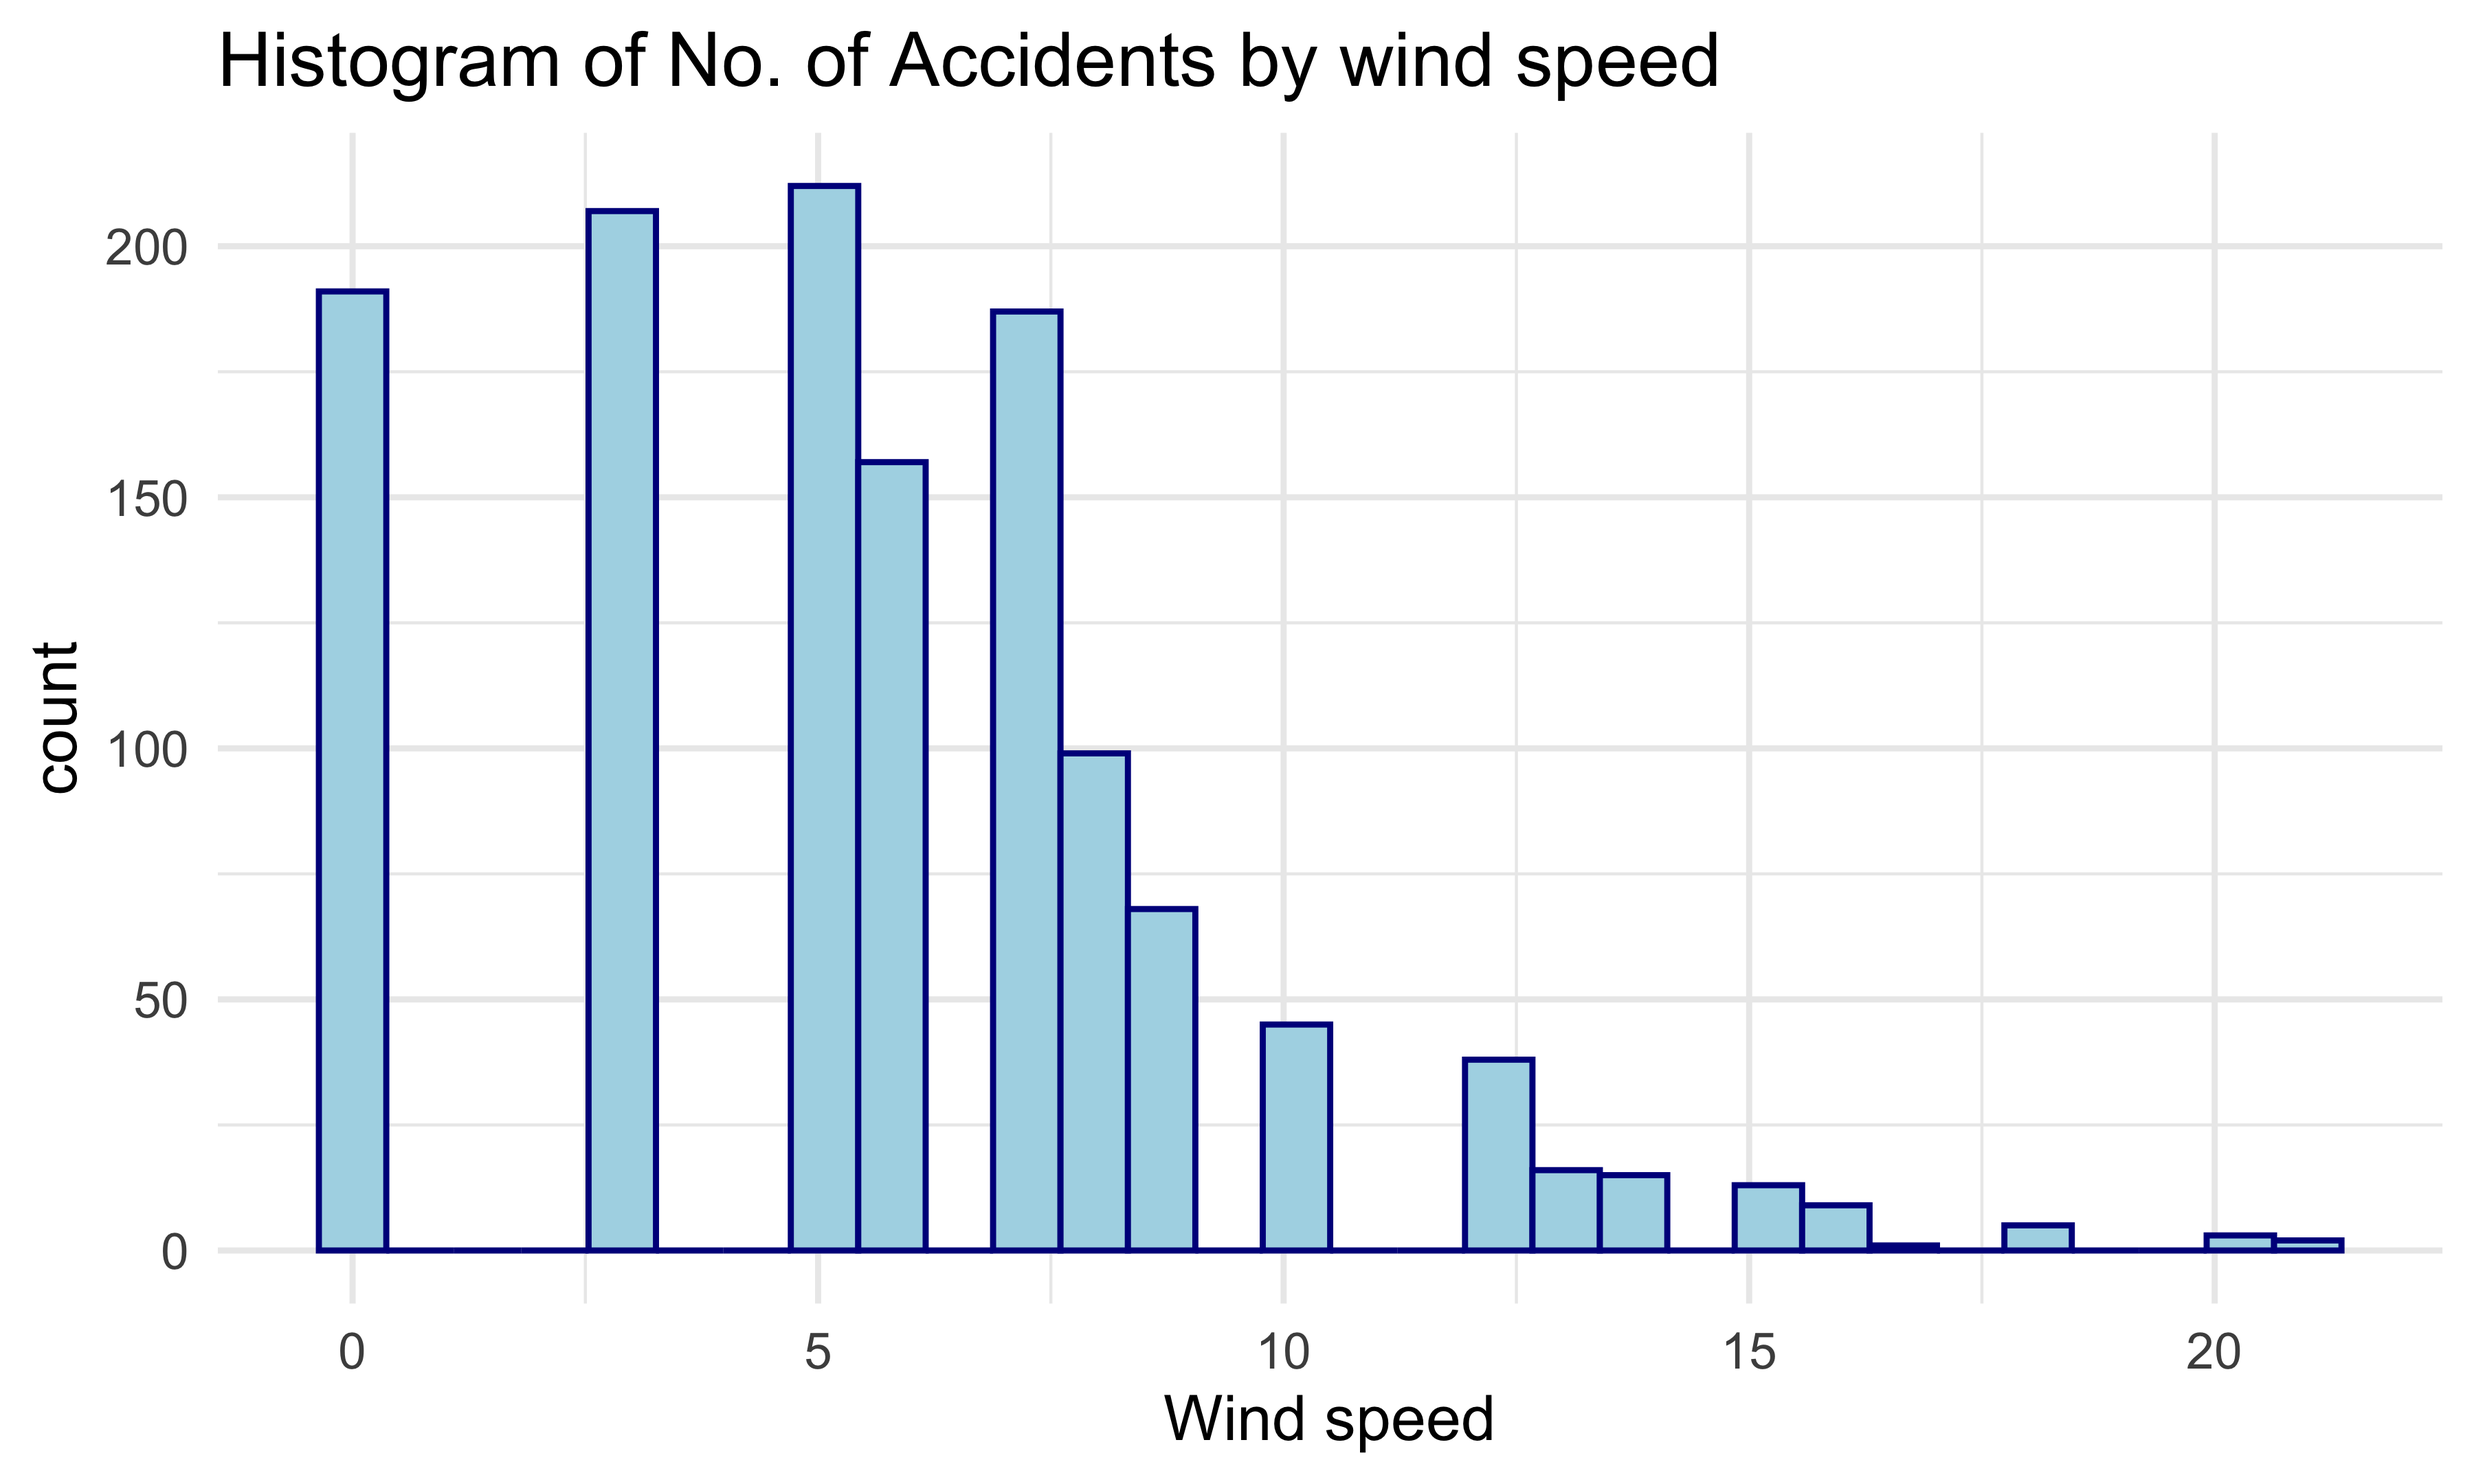
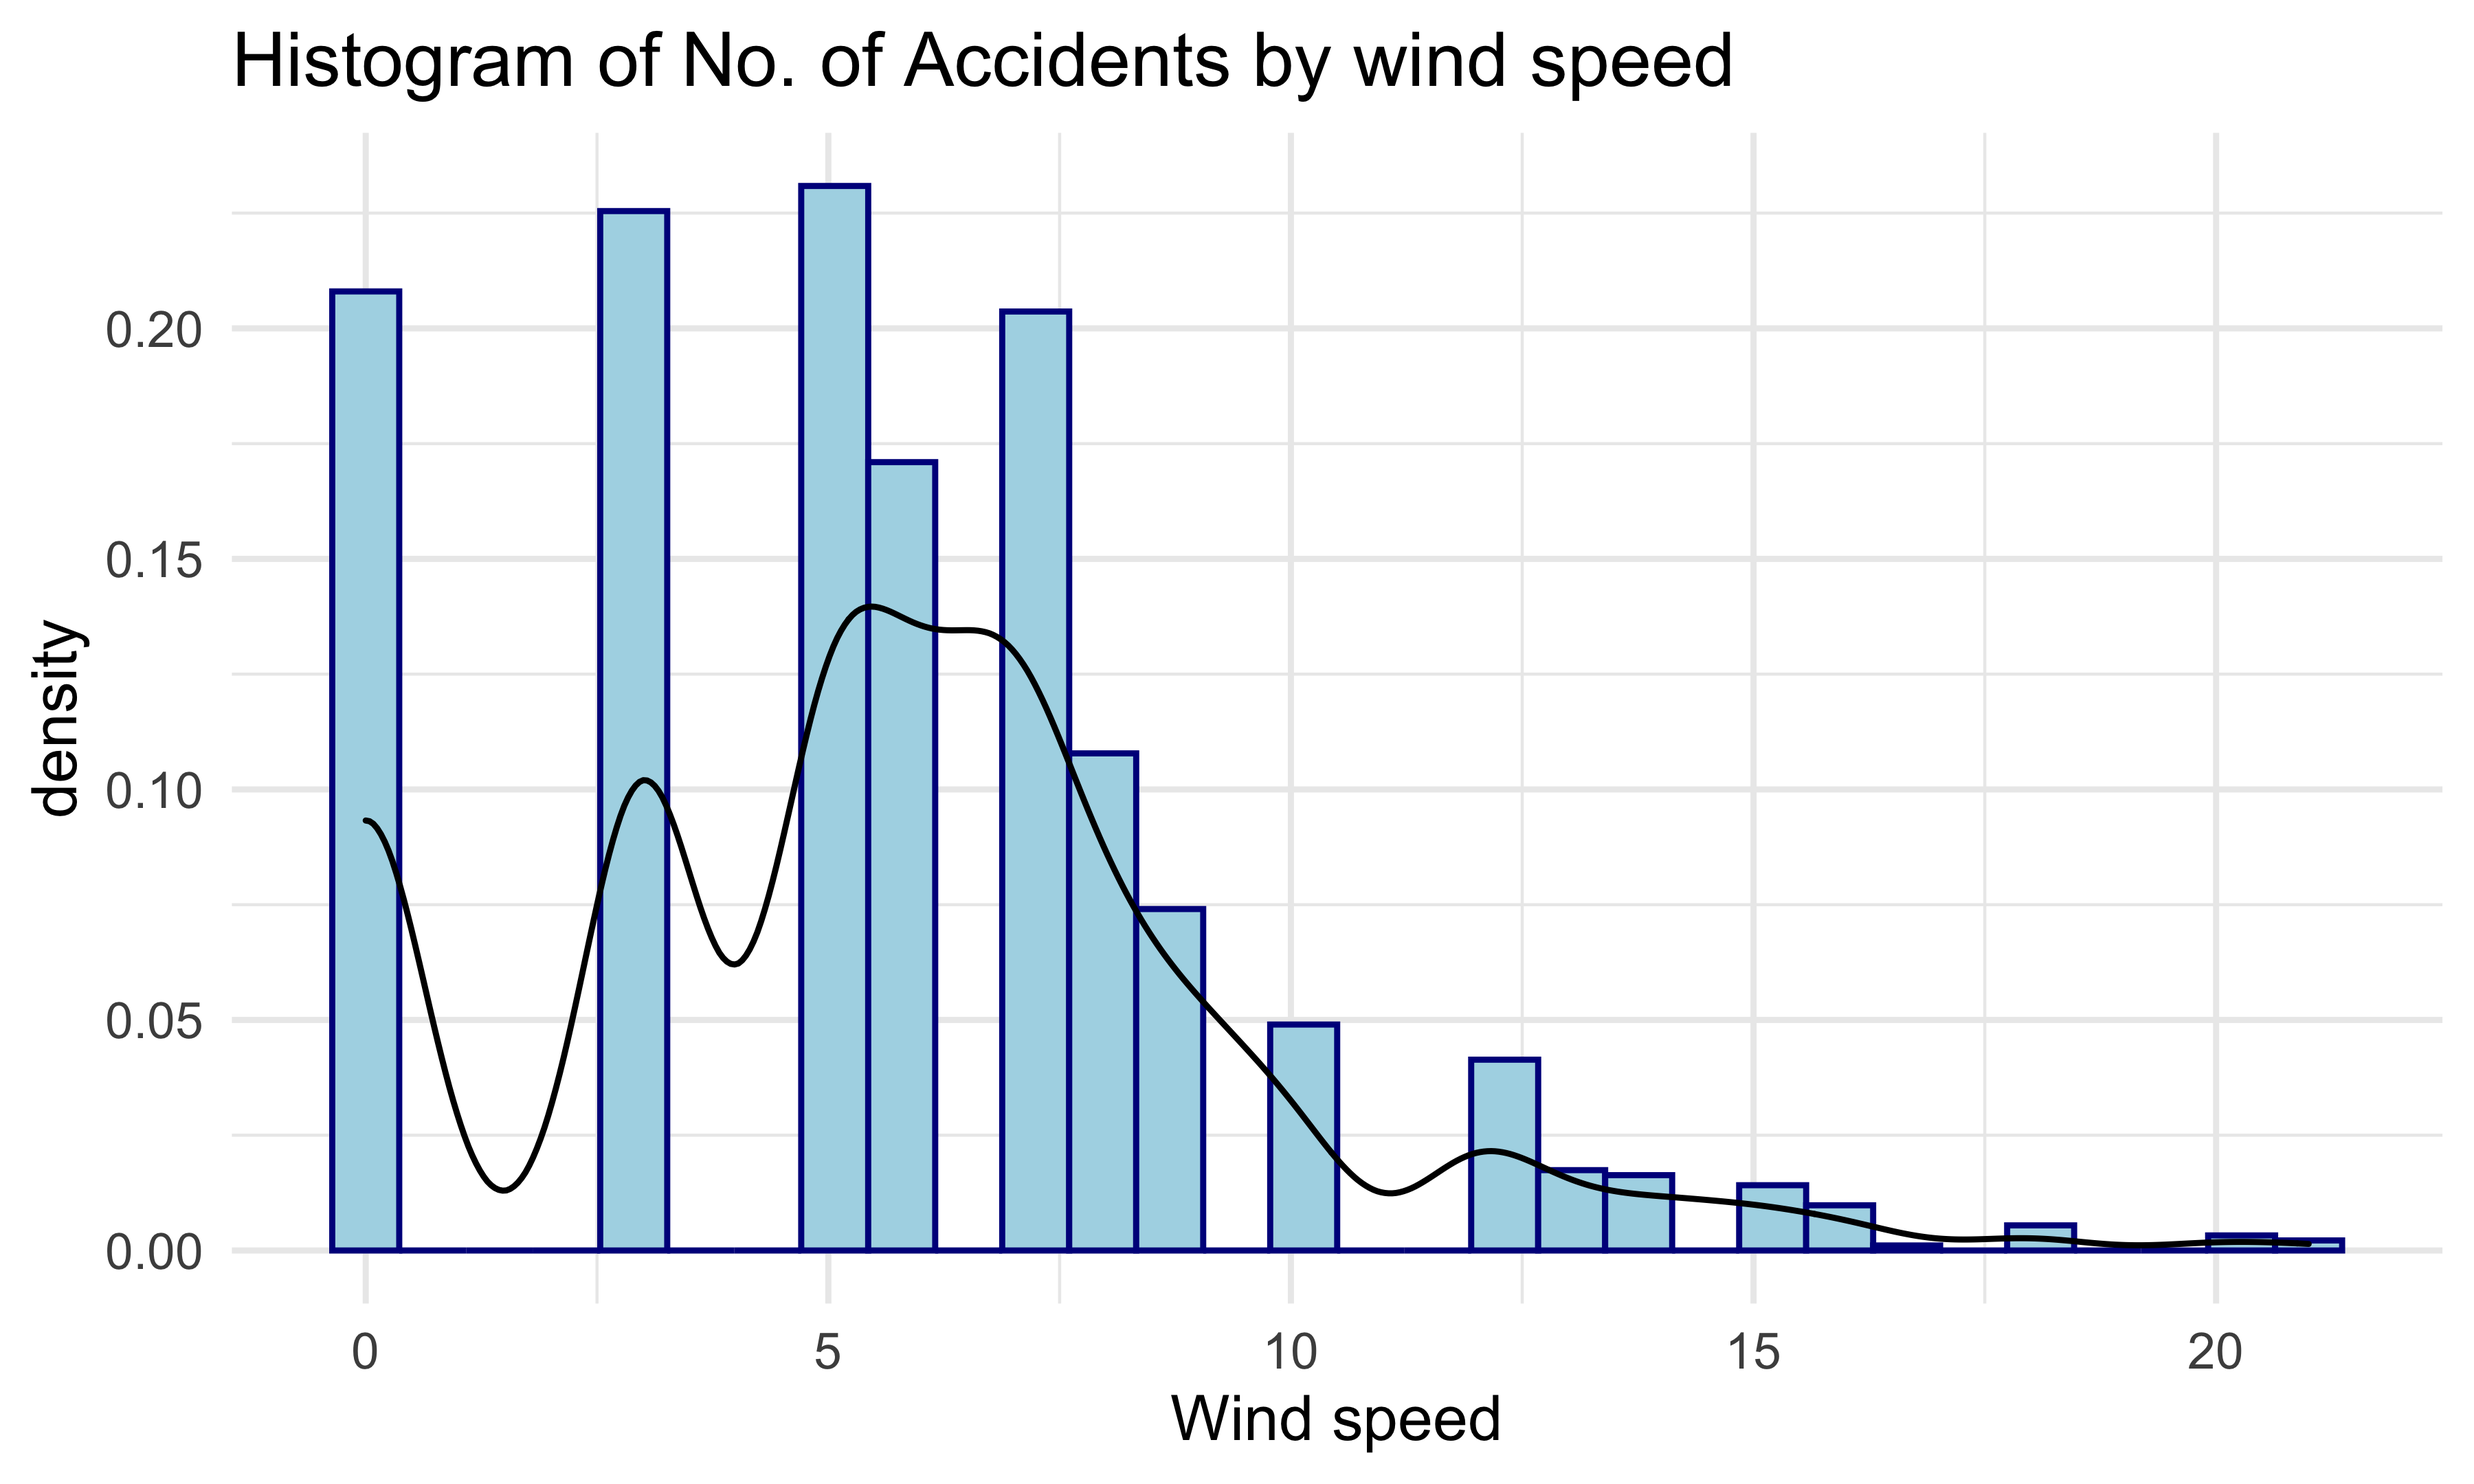
Updating weather page

diff --git a/weather.html b/weather.html
@@ -451,17 +451,14 @@ Cloudly, Light Rain, Partly Cloudly, Rain and Fog.</p>
 <div id="total-accidents-by-wind-speed" class="section level2">
 <h2>Total accidents by wind-speed</h2>
 <pre class="r"><code>accidents_windspeed = accidents2 %&gt;% 
-  ggplot(aes(x = wind_speed_mph)) +
+  ggplot(aes(x = wind_speed_mph, y = ..density..)) +
   geom_histogram(color = &quot;darkblue&quot;, fill = &quot;lightblue&quot;) +
   labs(
     title = &quot;Histogram of No. of Accidents by wind speed&quot;, 
        x = &quot;Wind speed&quot;
-  )
+  ) + geom_density()
 accidents_windspeed</code></pre>
 <p><img src="weather_files/figure-html/unnamed-chunk-3-1.png" width="90%" /></p>
-<pre class="r"><code>ggplot(accidents2, aes(x=wind_speed_mph)) + 
-  geom_density()</code></pre>
-<p><img src="weather_files/figure-html/unnamed-chunk-3-2.png" width="90%" /></p>
 <p>The plot shows the frequency of accidents by wind speed. As shown in
 plot, the distribution of frequency is right-skewed. The most common
 wind speed is from 0 to 7.5. The frequency of this interval is higher
@@ -472,20 +469,11 @@ frequency of wind speed larger than 12.5 is less than 25.</p>
 <div id="severity-and-wind-speed" class="section level2">
 <h2>Severity and wind speed</h2>
 <pre class="r"><code>ggplot(accidents2, aes(x = wind_speed_mph))+
-  geom_boxplot(color=&quot;black&quot;, fill=&quot;white&quot;)+
+  geom_boxplot(color=&quot;black&quot;, fill=&quot;light blue&quot;)+
   facet_grid(severity ~ .)</code></pre>
 <p><img src="weather_files/figure-html/unnamed-chunk-4-1.png" width="90%" /></p>
-<pre class="r"><code>severity = accidents2 %&gt;% 
-  group_by(severity) %&gt;% 
-  dplyr::summarize(obs = n()) %&gt;% 
-  arrange(desc(obs))
-
-ggplot(accidents2, aes(x = wind_speed_mph, y = severity)) + 
-  geom_violin(trim = FALSE, aes(fill = severity)) +
-  theme_bw()</code></pre>
-<p><img src="weather_files/figure-html/unnamed-chunk-4-2.png" width="90%" /></p>
 <pre class="r"><code>ggplot(accidents2, aes(x = wind_speed_mph, y = severity)) + 
-  geom_violin(trim = FALSE, aes(fill = severity)) +
+  geom_violin(trim = FALSE, fill = &quot;light blue&quot;) +
   theme_bw() +
   coord_flip() +
   labs(
@@ -493,7 +481,7 @@ ggplot(accidents2, aes(x = wind_speed_mph, y = severity)) +
        y = &quot;Wind Speed&quot;, 
        x = &quot;Severity Level&quot;
   )</code></pre>
-<p><img src="weather_files/figure-html/unnamed-chunk-4-3.png" width="90%" /></p>
+<p><img src="weather_files/figure-html/unnamed-chunk-4-2.png" width="90%" /></p>
 <p>This violin plot shows the range of wind speed in each severity
 level. The most common severity is severity 2. For severity 2, the range
 of wind speed is from 0 and 20. In severity 3, the range is from 8 to
